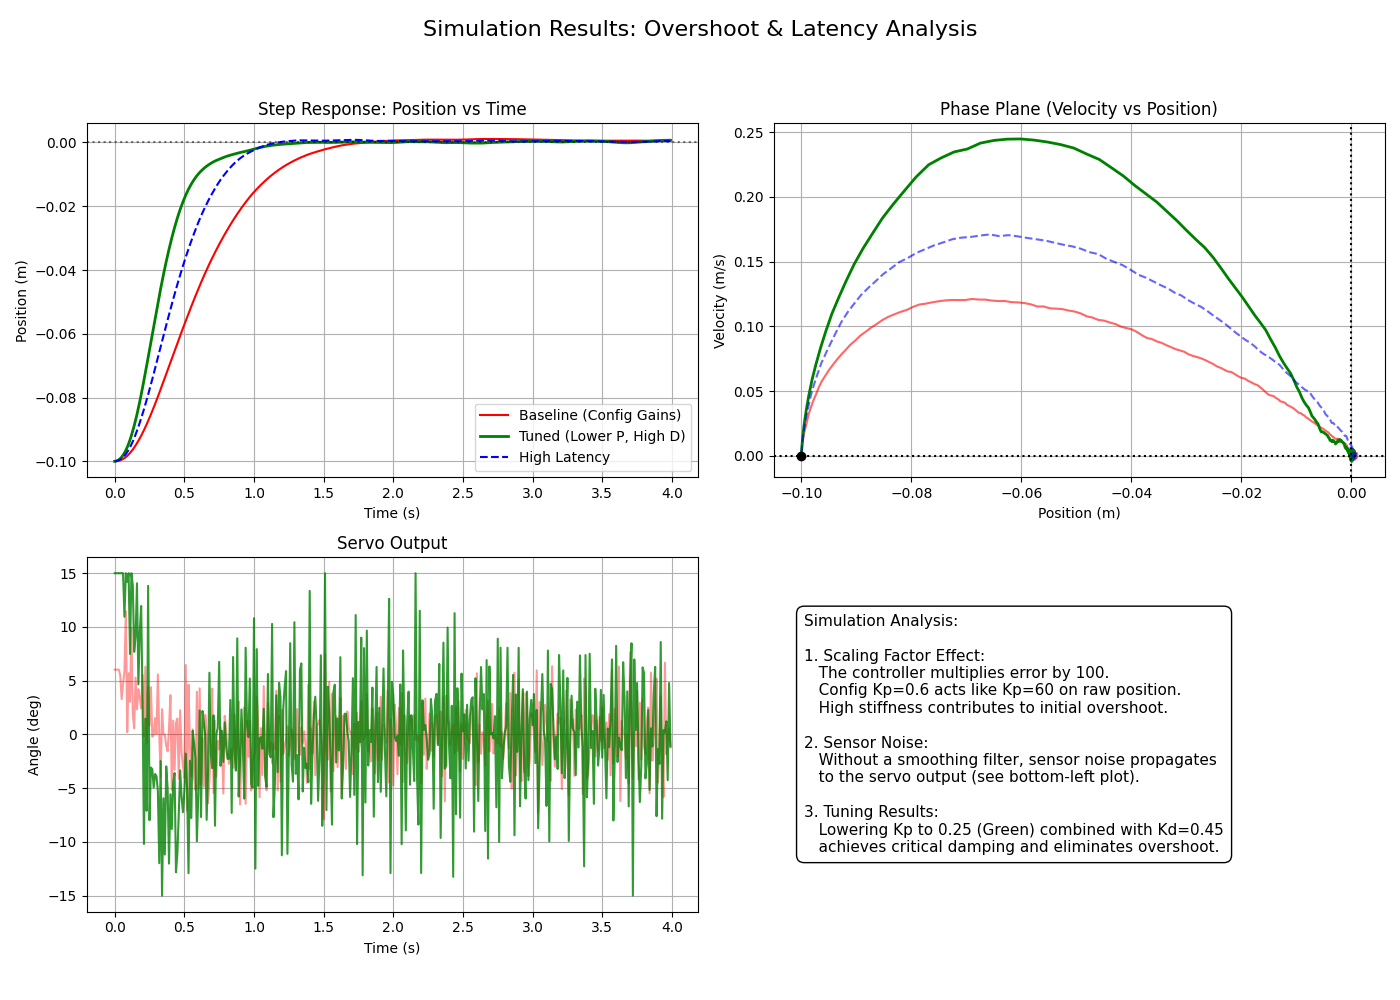
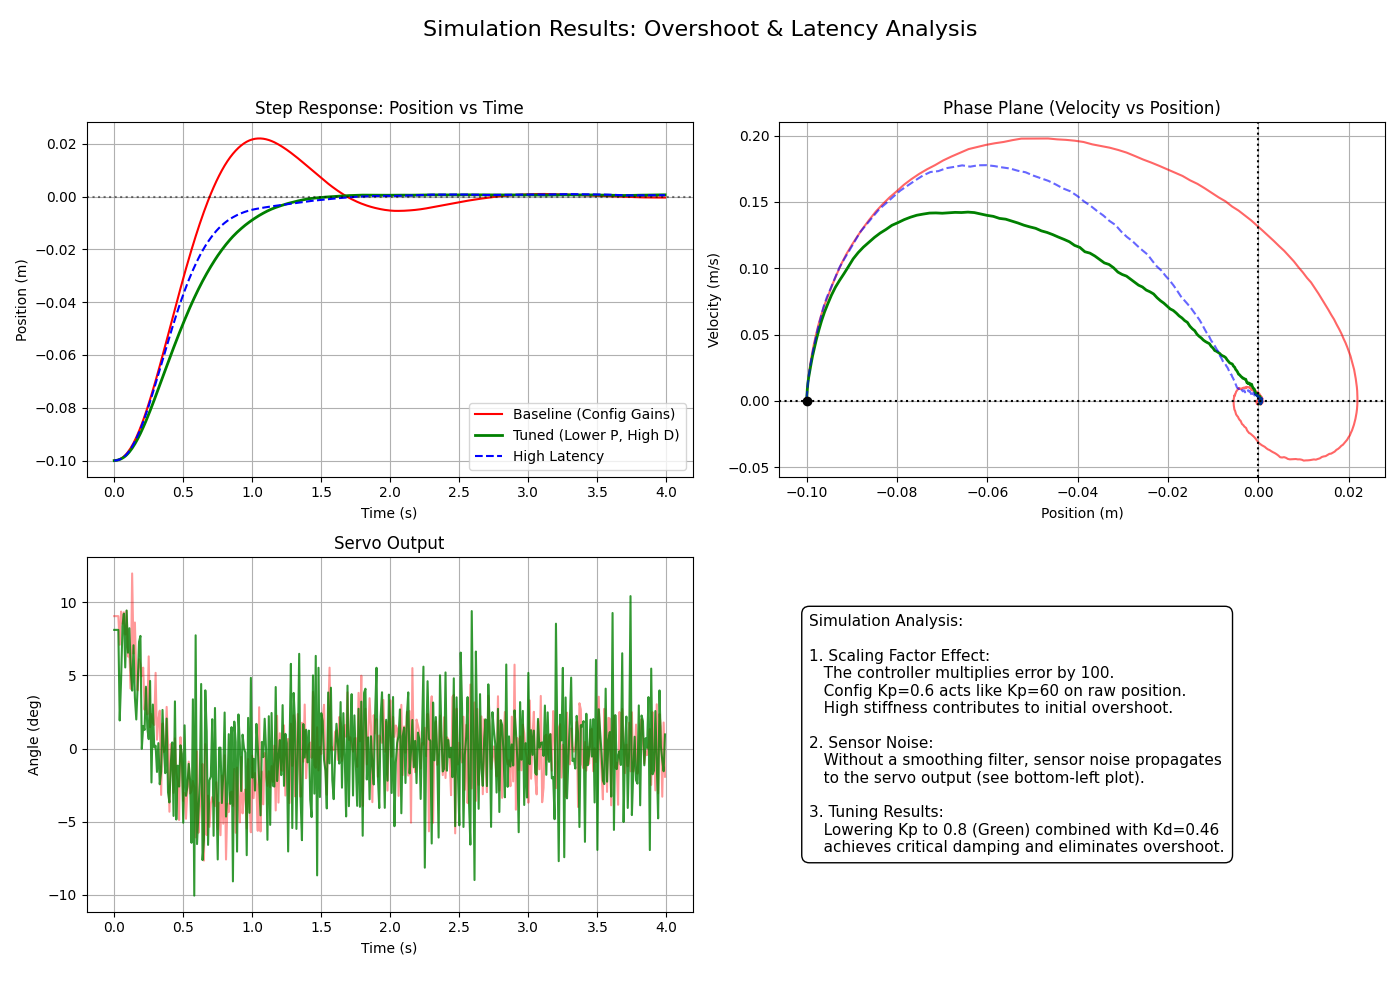
Updated values

diff --git a/overshoot_sim.py b/overshoot_sim.py
@@ -133,37 +133,26 @@ def main():
     # Scenario 1: Config Defaults (High Stiffness)
     # Gains taken from config_stewart.json
     t1, x1, v1, u1 = run_experiment(
-        Kp=0.6, Ki=0.1, Kd=0.4, 
+        Kp=0.9, Ki=0.1, Kd=0.3, 
         delay_frames=3, 
         label="Config Defaults"
     )
 
     # Scenario 2: Tuned for Stability (Critical Damping)
     # Lower P to account for error scaling, Tuned D for damping
-    # t2, x2, v2, u2 = run_experiment(
-    #     Kp=0.65, Ki=0.0, Kd=0.4, 
-    #     delay_frames=3, 
-    #     label="Tuned Gains"
-    # )
     t2, x2, v2, u2 = run_experiment(
-        Kp=2, Ki=0.1, Kd=0.75, 
+        Kp=0.8, Ki=0.1, Kd=0.46, 
         delay_frames=3, 
         label="Tuned Gains"
     )
 
-    t3, x3, v3, u3 = run_experiment(
-        Kp=1, Ki=0.1, Kd=0.49, 
-        delay_frames=3, 
-        label="High Latency"
-    )
-
     # Scenario 3: High Latency Stress Test
     # Same tuned gains, but with increased sensor delay
-    # t3, x3, v3, u3 = run_experiment(
-    #     Kp=0.25, Ki=0.0, Kd=0.45, 
-    #     delay_frames=8, 
-    #     label="High Latency"
-    # )
+    t3, x3, v3, u3 = run_experiment(
+        Kp=0.8, Ki=0.1, Kd=0.46, 
+        delay_frames=8, 
+        label="High Latency"
+    )
 
     # Setup Plots
     fig, axes = plt.subplots(2, 2, figsize=(14, 10))
@@ -216,7 +205,7 @@ def main():
         "   Without a smoothing filter, sensor noise propagates\n"
         "   to the servo output (see bottom-left plot).\n\n"
         "3. Tuning Results:\n"
-        "   Lowering Kp to 0.25 (Green) combined with Kd=0.45\n"
+        "   Lowering Kp to 0.8 (Green) combined with Kd=0.46\n"
         "   achieves critical damping and eliminates overshoot."
     )
     ax_txt.text(0.05, 0.5, txt, fontsize=11, va='center',
@@ -225,7 +214,7 @@ def main():
     plt.tight_layout(rect=[0, 0.03, 1, 0.95])
     
     # Save Plot
-    output_dir = "overshoot_plots"
+    output_dir = "overshoot_data"
     if not os.path.exists(output_dir):
         os.makedirs(output_dir)
         print(f"Created directory: {output_dir}")
@@ -294,7 +283,7 @@ def run_interactive_tuner():
 
     def save_values():
         val_str = f"Kp={kp_var.get():.3f}, Ki={ki_var.get():.3f}, Kd={kd_var.get():.3f}, Delay={delay_var.get()}\n"
-        with open("overshoot_plots/good_values.txt", "a") as f:
+        with open("overshoot_data/good_values.txt", "a") as f:
             f.write(val_str)
         print(f"Values saved: {val_str.strip()}")
 
@@ -346,8 +335,8 @@ def run_interactive_tuner():
 if __name__ == "__main__":
     # === SELECT MODE HERE ===
     
-    # MODE 1: Run the original comparative report (generates overshoot_plots/ image)
-    # main()
+    # MODE 1: Run the original comparative report (generates overshoot_data/ image)
+    main()
     
     # MODE 2: Run the interactive GUI tuner
-    run_interactive_tuner()
+    # run_interactive_tuner()
